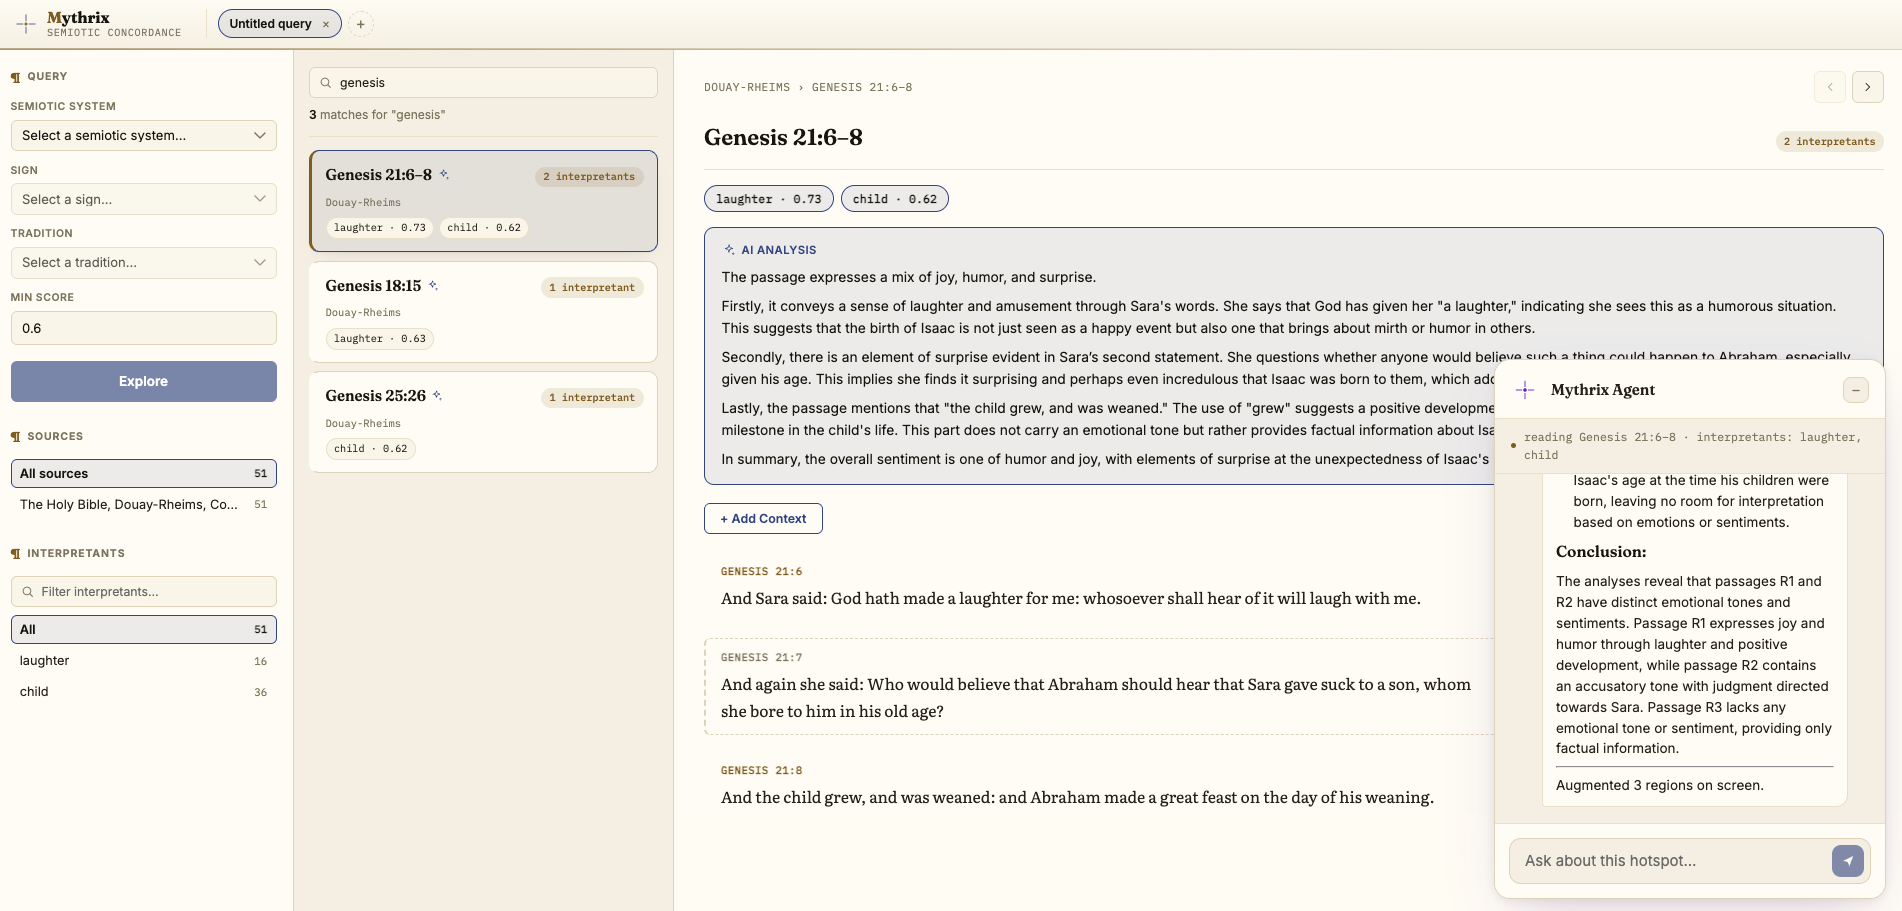
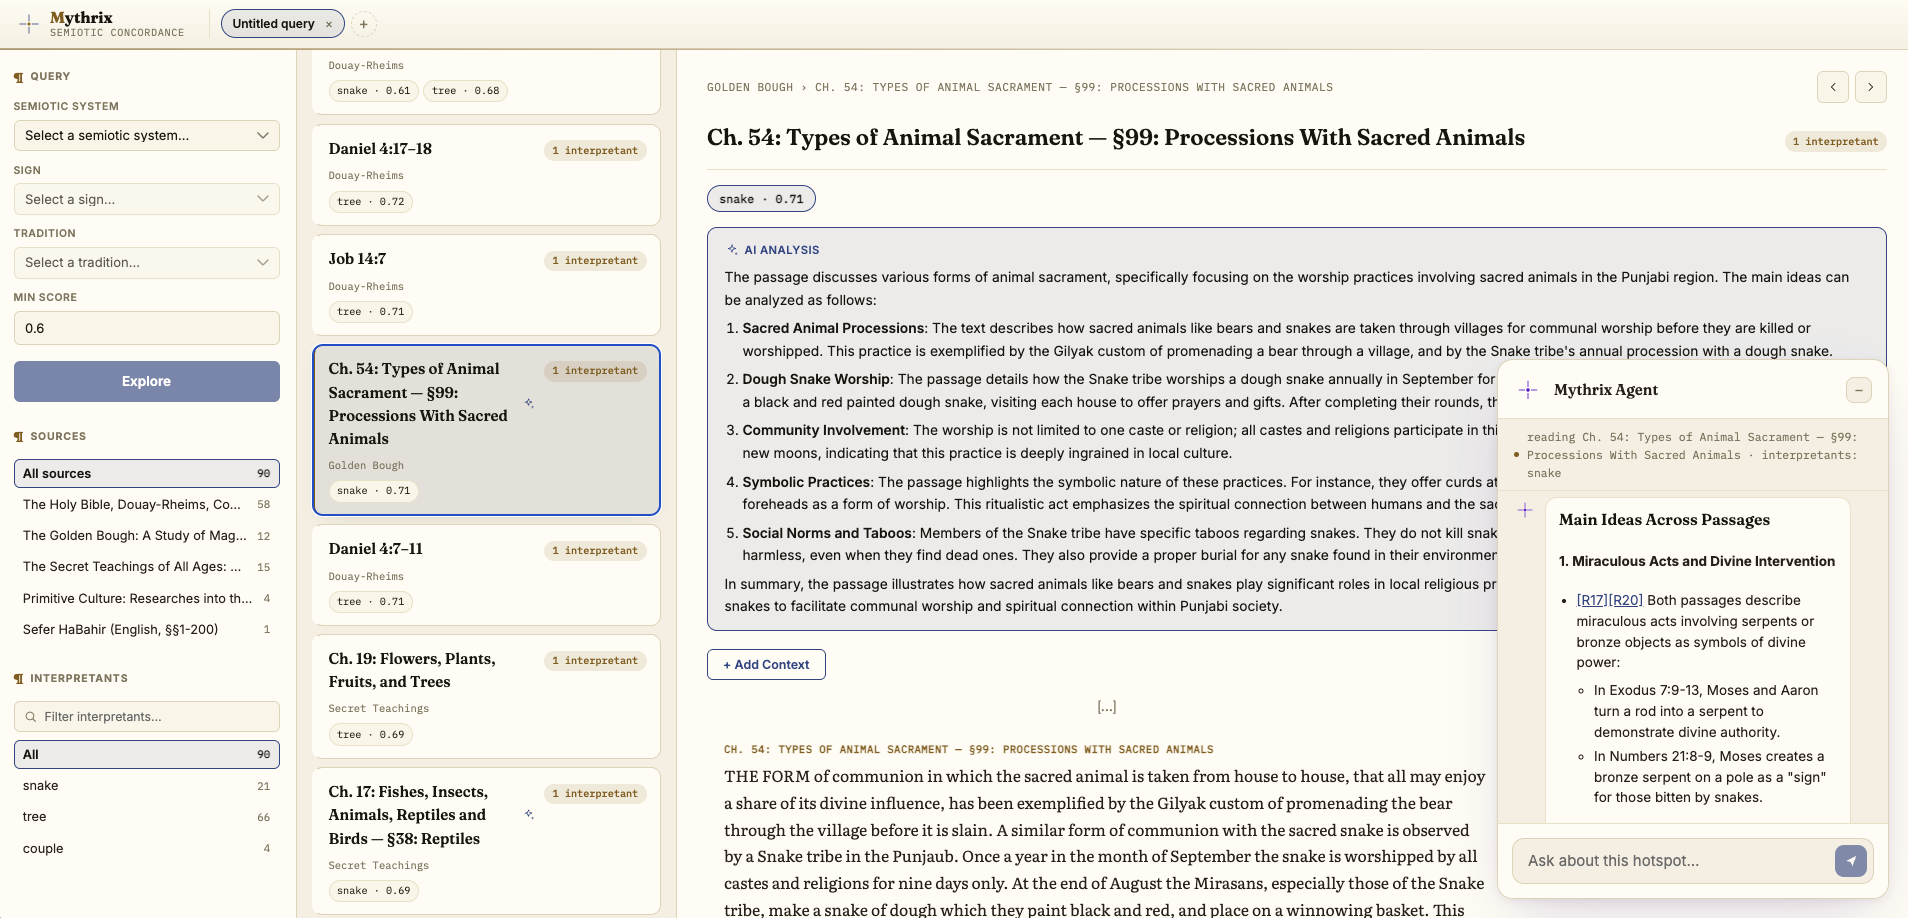
docs: update README screenshot

diff --git a/docs/TODO.md b/docs/TODO.md
@@ -33,5 +33,3 @@
 * [ ] **Adopt Conventional Commits specification across the repository.** 
 
 * [ ] **Semiotic Models Update.**. Improve current sample models, add astrology models, and expand sources.
-
-* [ ] **Update mythrix image in README.**.
